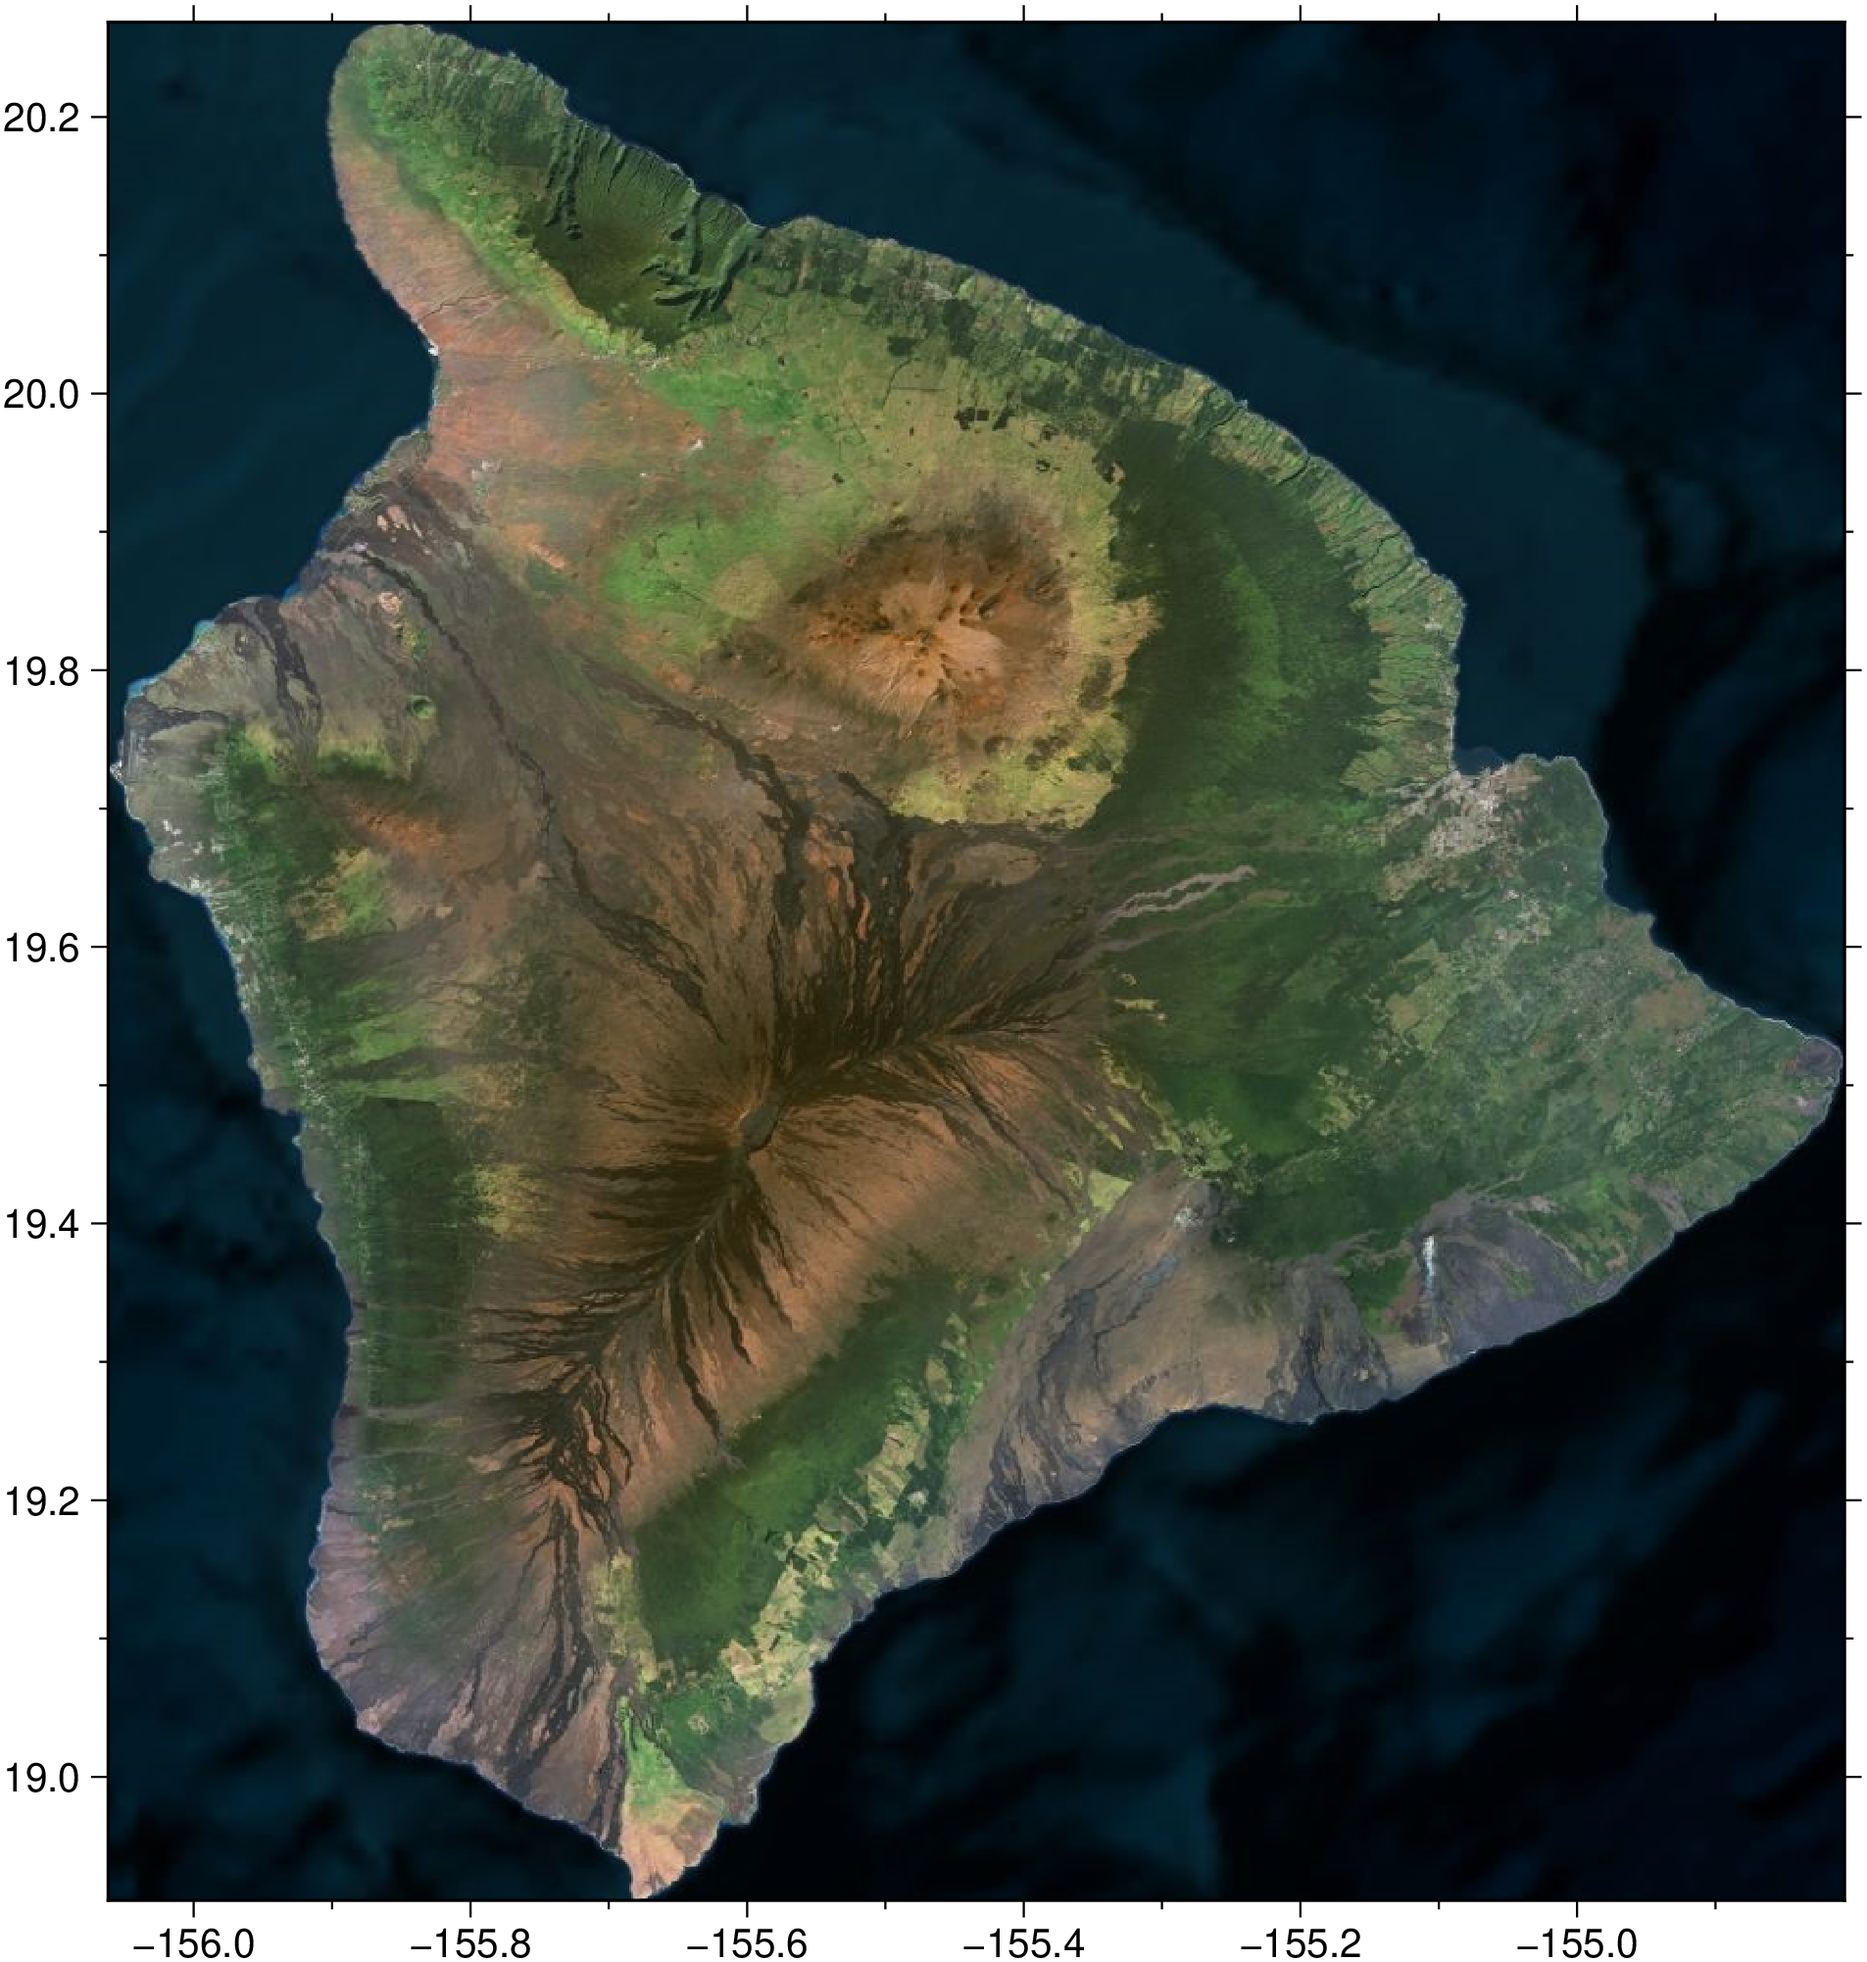
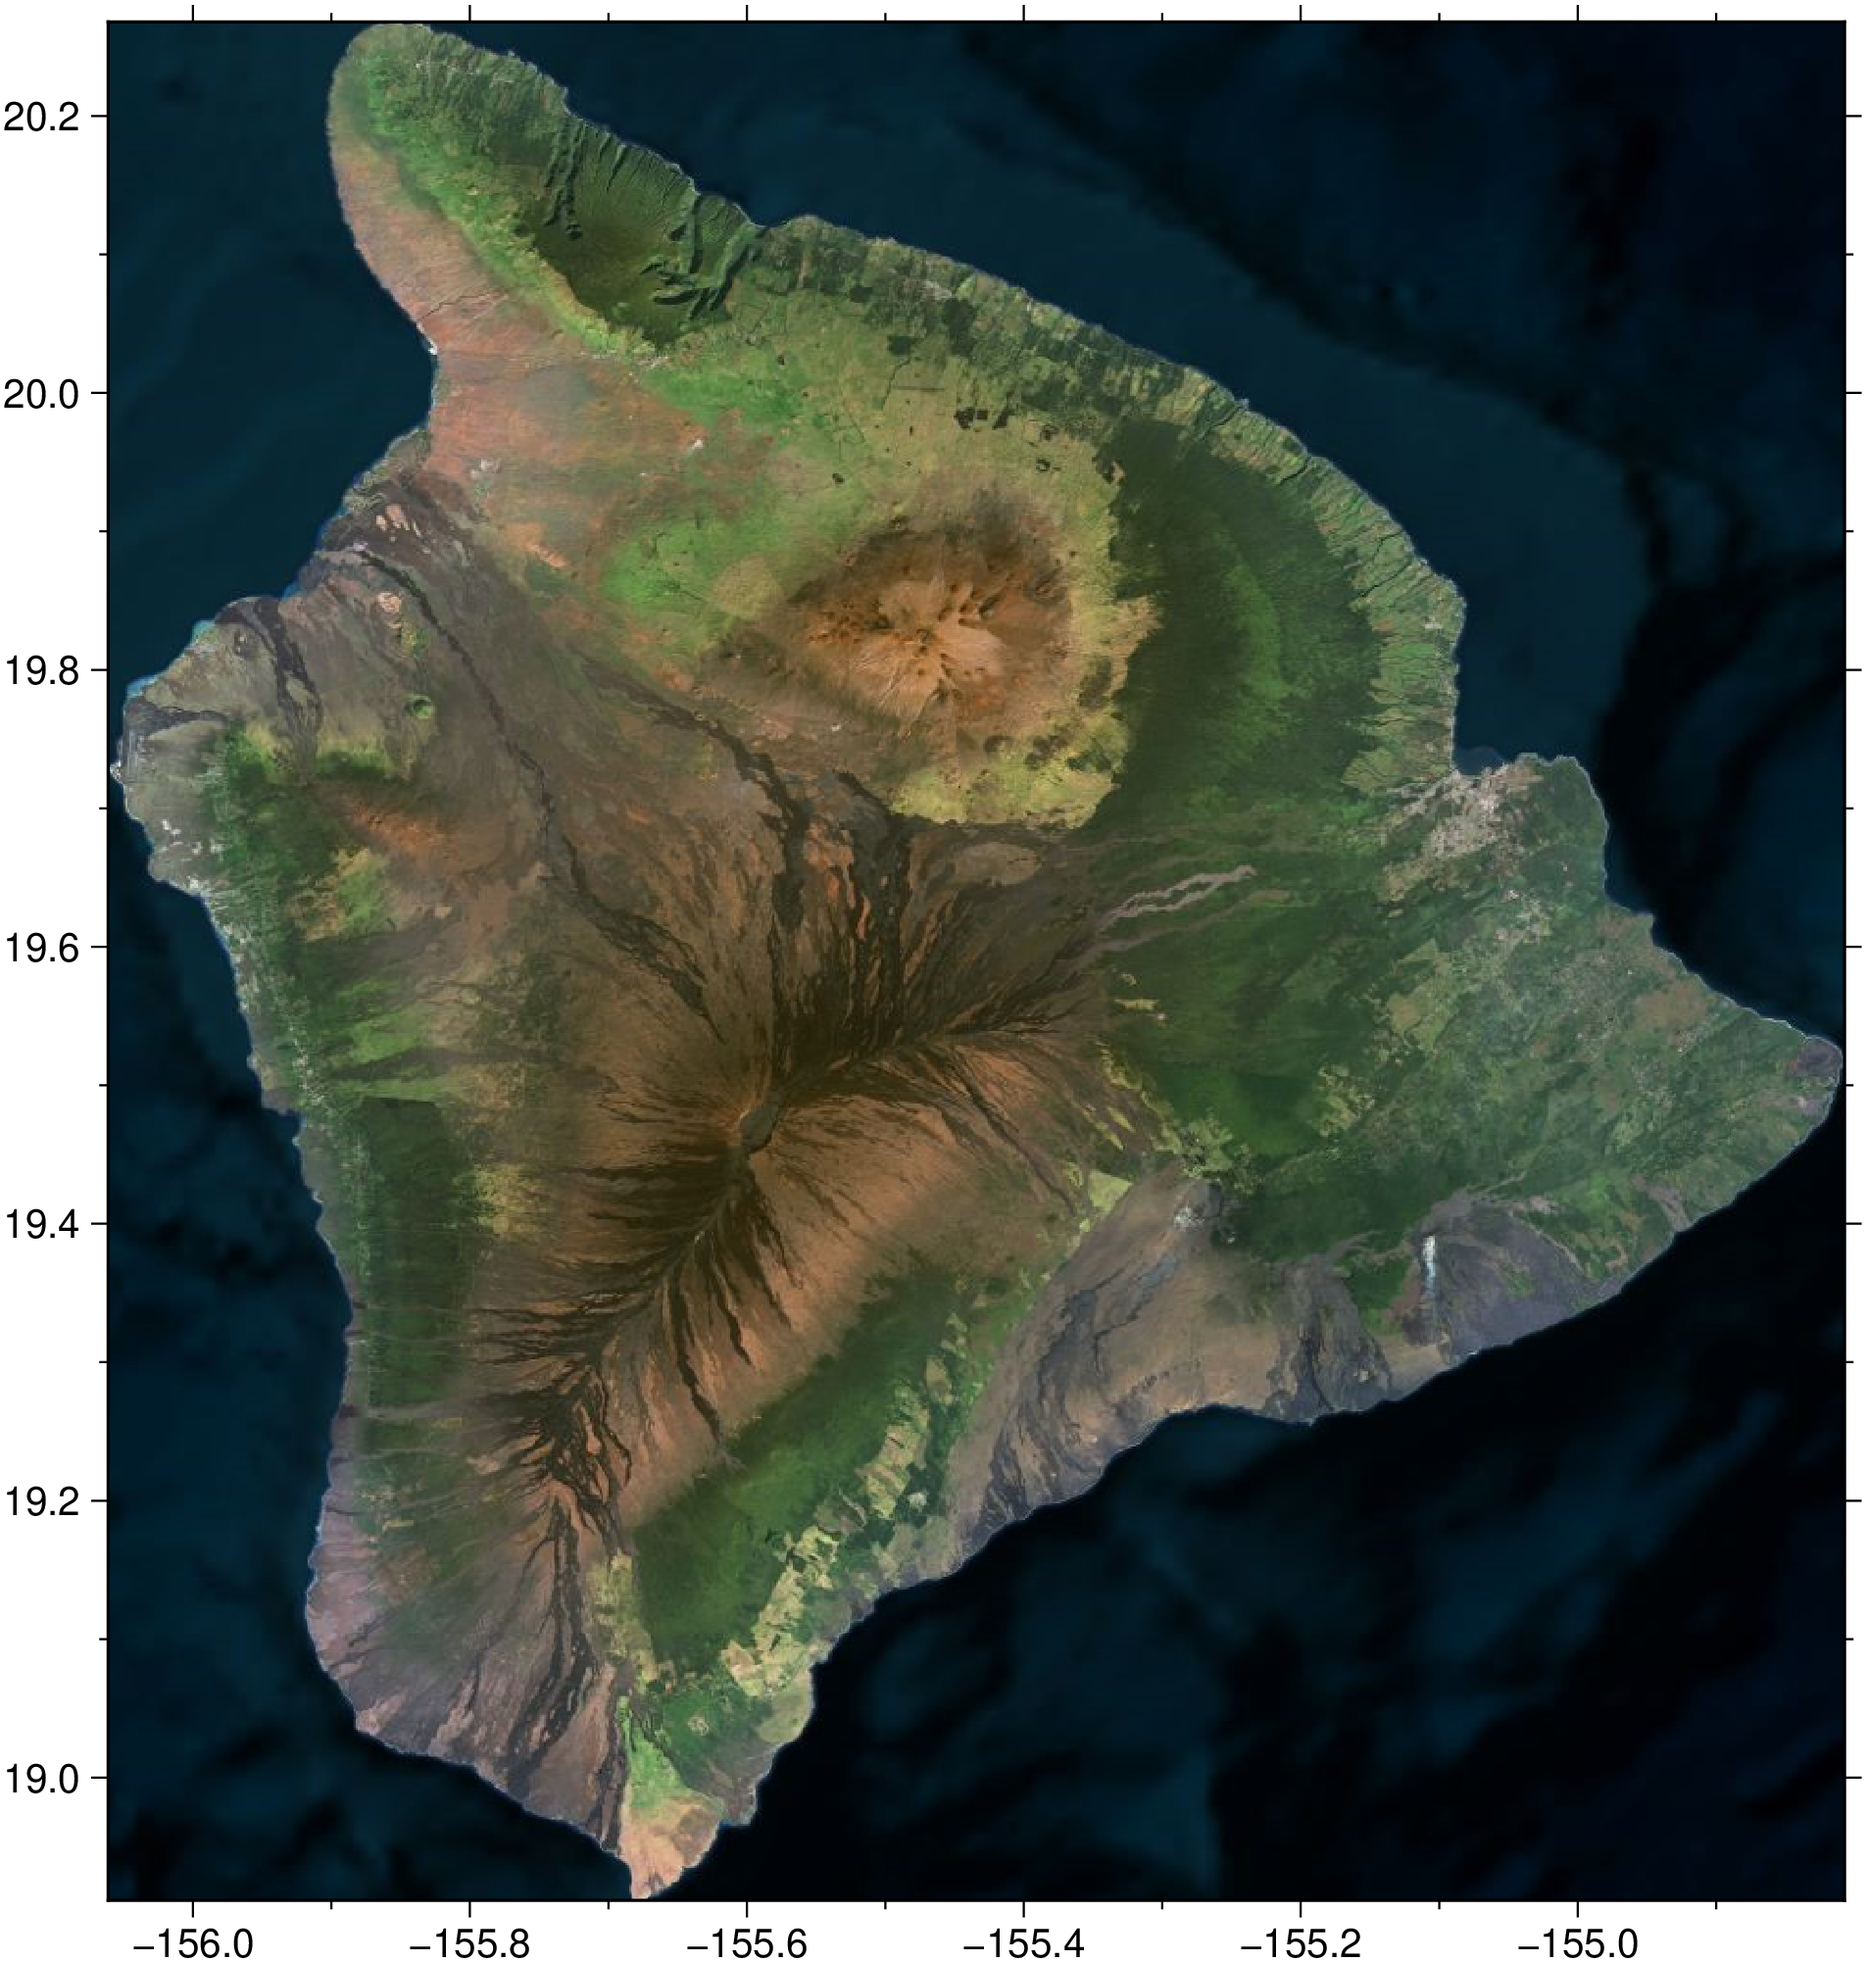
Built site for gh-pages

Changed region(s): [[0.8362, 0.991, 0.8672, 1.0], [0.2478, 0.991, 0.2787, 1.0]]

diff --git a/documentation/utilities/mosaic.html b/documentation/utilities/mosaic.html
@@ -511,6 +511,11 @@ pre > code.sourceCode > span > a:first-child::before { text-decoration: underlin
 <ul>
 <li>“Bing” (the default), “OSM”, “Esri” or a custom provider.</li>
 <li>A <code>Provider</code> type from the <a href="https://github.com/JuliaGeo/TileProviders.jl">TileProviders.jl</a> package. You must consult the documentation of that package for more details on how to choose a <em>provider</em>.</li>
+<li><code>"ortosat23"</code> / <code>"Ortosat23"</code>: Portuguese DGT orthophotos (2023) fetched via the DGT WMS service. Variants <code>"CorVerdadeira"</code> (default) and <code>"FalsaCor"</code>. Image always returned in WGS84 geographic coordinates; the spelling controls the output pipeline:
+<ul>
+<li><code>"ortosat23"</code> (lowercase): single-warp <strong>approximate</strong> path. Cheap. Output size is close to but not identical to the same-zoom Bing/Google result (source EPSG:3763 vs Bing’s EPSG:3857 produce different aspect after warping to geog).</li>
+<li><code>"Ortosat23"</code> (capital <code>O</code>): double-warp <strong>exact</strong> path. Two <code>gdalwarp</code> calls (EPSG:3763 -&gt; EPSG:3857 -&gt; latlong) replicate the Bing pipeline so the output bbox and pixel count match Bing exactly at the same <code>zoom</code> / <code>neighbors</code>. Costs two warps over the full image. For native EPSG:3763 metric coordinates or finer control over pixel resolution / <code>zoom</code> / <code>refine</code>, call <code>wmsread</code> directly (see <code>? wmsread</code>).</li>
+</ul></li>
 </ul></li>
 <li><p><code>zoom</code>: Zoom level (0 for automatic). A number between 0 and ~19. The maximum is provider and area dependent. If <code>zoom=0</code>, the zoom level is computed automatically based on the <code>mapwidth</code> and <code>dpi</code> options.</p></li>
 <li><p><code>cache</code>: Full name of the the cache directory where to save the downloaded tiles. If empty, a cache directory is created in the system’s TMP directory. If <code>cache="gmt"</code> the cache directory is created in <code>~/.gmt/cache_tileserver</code>. NOTE: this normally is neeaded only for the first time you run this function when, if <code>cache!=""</code>, the cache dir location is saved in the <code>~./gmt/tiles_cache_dir.txt</code> file and used in subsequent calls.</p></li>
@@ -540,15 +545,30 @@ pre > code.sourceCode > span > a:first-child::before { text-decoration: underlin
 <ul>
 <li>Make a figure with OpenStreetMap over Iberia maintaining the original spherical Mercator projection.</li>
 </ul>
-<div id="738183d4" class="cell" data-execution_count="1">
+<div id="37465845" class="cell" data-execution_count="1">
 <div class="code-copy-outer-scaffold"><div class="sourceCode cell-code" id="cb6"><pre class="sourceCode julia code-with-copy"><code class="sourceCode julia"><span id="cb6-1"><a href="#cb6-1" aria-hidden="true" tabindex="-1"></a><span class="im">using</span> <span class="bu">GMT</span></span>
 <span id="cb6-2"><a href="#cb6-2" aria-hidden="true" tabindex="-1"></a></span>
 <span id="cb6-3"><a href="#cb6-3" aria-hidden="true" tabindex="-1"></a>I <span class="op">=</span> <span class="fu">mosaic</span>([<span class="op">-</span><span class="fl">9.5</span>, <span class="fl">3.3</span>], [<span class="fl">36.0</span>, <span class="fl">43.8</span>], provider<span class="op">=:</span>OSM, zoom<span class="op">=</span><span class="fl">7</span>, merc<span class="op">=</span><span class="cn">true</span>)</span>
 <span id="cb6-4"><a href="#cb6-4" aria-hidden="true" tabindex="-1"></a><span class="fu">viz</span>(I)</span></code></pre></div><button title="Copy to Clipboard" class="code-copy-button"><i class="bi"></i></button></div>
+<div class="cell-output cell-output-stderr">
+<div class="ansi-escaped-output">
+<pre><span class="ansi-green-fg ansi-bold">Precompiling</span>
+ packages...
+
+
+    984.8 ms<span class="ansi-green-fg">  ✓ </span><span class="ansi-bright-black-fg">Leptonica_jll</span>
+
+  73337.4 ms<span class="ansi-green-fg">  ✓ </span>GMT
+
+  2 dependencies successfully precompiled in 77 seconds. 79 already precompiled.
+
+</pre>
+</div>
+</div>
 <div class="cell-output cell-output-display">
 <div>
 <figure class="figure">
-<p><img src="mosaic_files/figure-html/cell-2-output-1.png" class="img-fluid figure-img"></p>
+<p><img src="mosaic_files/figure-html/cell-2-output-2.png" class="img-fluid figure-img"></p>
 </figure>
 </div>
 </div>
@@ -556,7 +576,7 @@ pre > code.sourceCode > span > a:first-child::before { text-decoration: underlin
 <ul>
 <li>Make a figure of the Big Island of Hawaii using the default Bing images. In this case we use the <code>geocoder</code> function to give us the map limits</li>
 </ul>
-<div id="bf1b13af" class="cell" data-execution_count="2">
+<div id="dddb5190" class="cell" data-execution_count="2">
 <div class="code-copy-outer-scaffold"><div class="sourceCode cell-code" id="cb7"><pre class="sourceCode julia code-with-copy"><code class="sourceCode julia"><span id="cb7-1"><a href="#cb7-1" aria-hidden="true" tabindex="-1"></a><span class="im">using</span> <span class="bu">GMT</span></span>
 <span id="cb7-2"><a href="#cb7-2" aria-hidden="true" tabindex="-1"></a></span>
 <span id="cb7-3"><a href="#cb7-3" aria-hidden="true" tabindex="-1"></a><span class="co"># Get the geographical limits of the Big Island in Hawaii</span></span>
@@ -577,7 +597,7 @@ pre > code.sourceCode > span > a:first-child::before { text-decoration: underlin
 <ul>
 <li>Show only the tilles limits over a selected zone/zoom level.</li>
 </ul>
-<div id="d700bd09" class="cell" data-execution_count="3">
+<div id="da262fd3" class="cell" data-execution_count="3">
 <div class="code-copy-outer-scaffold"><div class="sourceCode cell-code" id="cb8"><pre class="sourceCode julia code-with-copy"><code class="sourceCode julia"><span id="cb8-1"><a href="#cb8-1" aria-hidden="true" tabindex="-1"></a><span class="im">using</span> <span class="bu">GMT</span></span>
 <span id="cb8-2"><a href="#cb8-2" aria-hidden="true" tabindex="-1"></a></span>
 <span id="cb8-3"><a href="#cb8-3" aria-hidden="true" tabindex="-1"></a>D <span class="op">=</span> <span class="fu">mosaic</span>(region<span class="op">=</span>(<span class="op">-</span><span class="fl">10</span>, <span class="op">-</span><span class="fl">8</span>, <span class="fl">37</span>, <span class="fl">39</span>), zoom<span class="op">=</span><span class="fl">9</span>, mesh<span class="op">=</span><span class="cn">true</span>);</span>
@@ -611,16 +631,16 @@ pre > code.sourceCode > span > a:first-child::before { text-decoration: underlin
 <h2 class="anchored" data-anchor-id="source-code">Source Code</h2>
 <p>This function has multiple methods:</p>
 <ul>
-<li><a href="https://github.com/GenericMappingTools/GMT.jl/blob/master/src/imshow.jl#L236"><code>imshow(arg1::GMTcpt; horizontal, kw...)</code></a> - imshow.jl:236</li>
-<li><a href="https://github.com/GenericMappingTools/GMT.jl/blob/master/src/imshow.jl#L235"><code>imshow(arg1::Symbol; horizontal, kw...)</code></a> - imshow.jl:235</li>
-<li><a href="https://github.com/GenericMappingTools/GMT.jl/blob/master/src/imshow.jl#L270"><code>imshow(x::AbstractVector{Float64}, f::String; kw...)</code></a> - imshow.jl:270</li>
-<li><a href="https://github.com/GenericMappingTools/GMT.jl/blob/master/src/imshow.jl#L269"><code>imshow(x::AbstractVector{Float64}, y::AbstractVector{Float64}, f::String; kw...)</code></a> - imshow.jl:269</li>
-<li><a href="https://github.com/GenericMappingTools/GMT.jl/blob/master/src/imshow.jl#L266"><code>imshow(x::AbstractVector{Float64}, f::Function; kw...)</code></a> - imshow.jl:266</li>
-<li><a href="https://github.com/GenericMappingTools/GMT.jl/blob/master/src/imshow.jl#L246"><code>imshow(x::AbstractVector{Float64}, y::AbstractVector{Float64}, f::Function; kw...)</code></a> - imshow.jl:246</li>
-<li><a href="https://github.com/GenericMappingTools/GMT.jl/blob/master/src/imshow.jl#L241"><code>imshow(arg1::GMT.Gdal.AbstractDataset; kw...)</code></a> - imshow.jl:241</li>
-<li><a href="https://github.com/GenericMappingTools/GMT.jl/blob/master/src/imshow.jl#L268"><code>imshow(f::Function, x::AbstractVector{Float64}, y::AbstractVector{Float64}; kw...)</code></a> - imshow.jl:268</li>
-<li><a href="https://github.com/GenericMappingTools/GMT.jl/blob/master/src/imshow.jl#L267"><code>imshow(f::Function, x::AbstractVector{Float64}; kw...)</code></a> - imshow.jl:267</li>
-<li><a href="https://github.com/GenericMappingTools/GMT.jl/blob/master/src/imshow.jl#L124"><code>imshow(arg1::GItype; kw...)</code></a> - imshow.jl:124</li>
+<li><a href="https://github.com/GenericMappingTools/GMT.jl/blob/master/src/imshow.jl#L250"><code>imshow(arg1::GMTcpt; horizontal, kw...)</code></a> - imshow.jl:250</li>
+<li><a href="https://github.com/GenericMappingTools/GMT.jl/blob/master/src/imshow.jl#L249"><code>imshow(arg1::Symbol; horizontal, kw...)</code></a> - imshow.jl:249</li>
+<li><a href="https://github.com/GenericMappingTools/GMT.jl/blob/master/src/imshow.jl#L256"><code>imshow(arg1::GMT.Gdal.AbstractDataset; kw...)</code></a> - imshow.jl:256</li>
+<li><a href="https://github.com/GenericMappingTools/GMT.jl/blob/master/src/imshow.jl#L285"><code>imshow(x::AbstractVector{Float64}, f::String; kw...)</code></a> - imshow.jl:285</li>
+<li><a href="https://github.com/GenericMappingTools/GMT.jl/blob/master/src/imshow.jl#L284"><code>imshow(x::AbstractVector{Float64}, y::AbstractVector{Float64}, f::String; kw...)</code></a> - imshow.jl:284</li>
+<li><a href="https://github.com/GenericMappingTools/GMT.jl/blob/master/src/imshow.jl#L281"><code>imshow(x::AbstractVector{Float64}, f::Function; kw...)</code></a> - imshow.jl:281</li>
+<li><a href="https://github.com/GenericMappingTools/GMT.jl/blob/master/src/imshow.jl#L261"><code>imshow(x::AbstractVector{Float64}, y::AbstractVector{Float64}, f::Function; kw...)</code></a> - imshow.jl:261</li>
+<li><a href="https://github.com/GenericMappingTools/GMT.jl/blob/master/src/imshow.jl#L283"><code>imshow(f::Function, x::AbstractVector{Float64}, y::AbstractVector{Float64}; kw...)</code></a> - imshow.jl:283</li>
+<li><a href="https://github.com/GenericMappingTools/GMT.jl/blob/master/src/imshow.jl#L282"><code>imshow(f::Function, x::AbstractVector{Float64}; kw...)</code></a> - imshow.jl:282</li>
+<li><a href="https://github.com/GenericMappingTools/GMT.jl/blob/master/src/imshow.jl#L132"><code>imshow(arg1::GItype; kw...)</code></a> - imshow.jl:132</li>
 <li><a href="https://github.com/GenericMappingTools/GMT.jl/blob/master/src/imshow.jl#L36"><code>imshow(arg1; ...)</code></a> - imshow.jl:36</li>
 <li><a href="https://github.com/GenericMappingTools/GMT.jl/blob/master/src/imshow.jl#L36"><code>imshow(arg1, x::AbstractVector{Float64}; ...)</code></a> - imshow.jl:36</li>
 <li><a href="https://github.com/GenericMappingTools/GMT.jl/blob/master/src/imshow.jl#L36"><code>imshow(arg1, x::AbstractVector{Float64}, y::AbstractVector{Float64}; kw...)</code></a> - imshow.jl:36</li>
